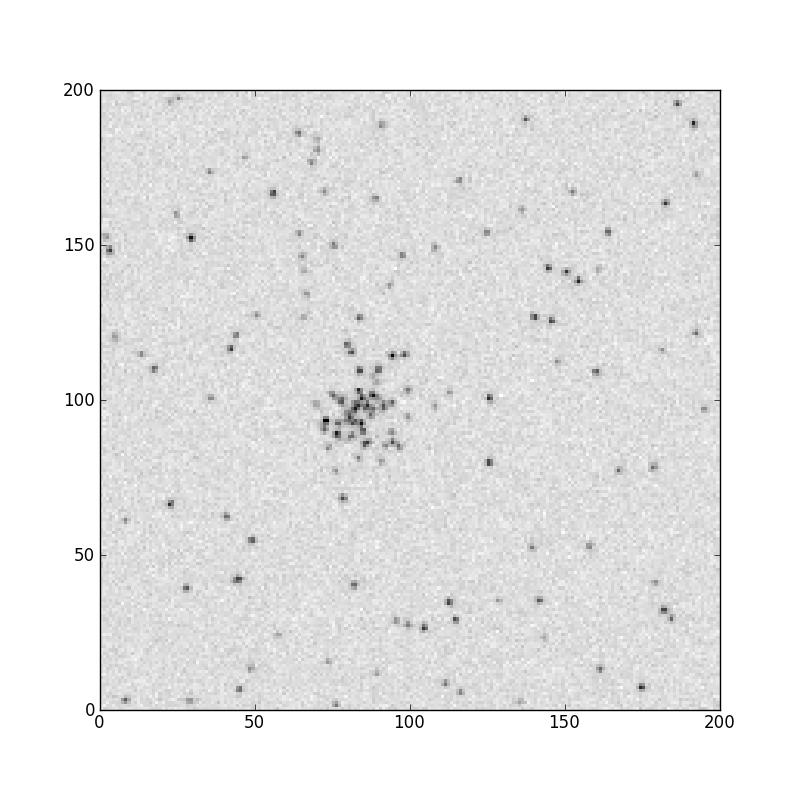
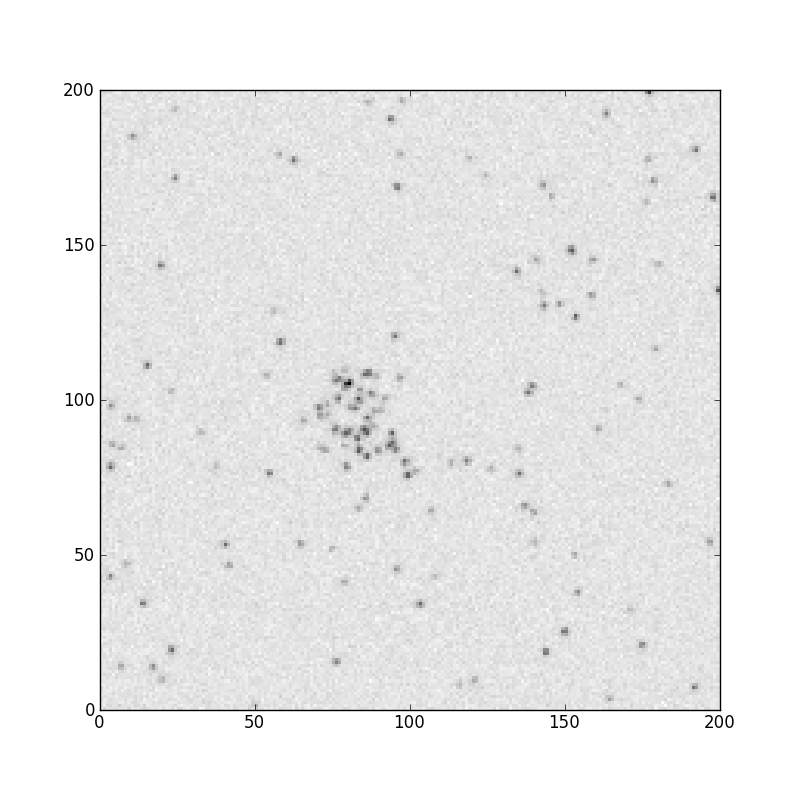
small tweak to example psf

diff --git a/starfield/starfield.py b/starfield/starfield.py
@@ -178,7 +178,7 @@ if __name__ == "__main__":
     import time
     import matplotlib.pyplot as pl
 
-    psf = PSF([1.2, 0.5], [1.0, 5.0])
+    psf = PSF([1.0, 0.6], [1.0, 4.0])
 
     sf = StarField(psf, 200, 200)
     sf.generate_bg_stars(100)

diff --git a/starfield/__init__.py b/starfield/__init__.py
@@ -1,0 +1,1 @@
+from starfield import *

diff --git a/README.md b/README.md
@@ -1,4 +1,22 @@
 # Synthetic Star Field Generator
 
+```python
+from starfield import PSF, StarField
+import matplotlib.pyplot as pl
+
+psf = PSF([1.0, 0.6], [1.0, 4.0])
+
+sf = StarField(psf, 200, 200)
+sf.generate_bg_stars(100)
+sf.generate_gaussian_stars(50, 95, 83.5, [[8.**2, 0], [0, 8.**2]])
+img = sf.image()
+
+fig = pl.figure(figsize=(8,8))
+ax = fig.add_subplot(111, aspect="equal")
+ax.pcolor(-img, cmap="gray")
+pl.savefig("example.png")
+
+```
+
 !["Just some stars"](https://github.com/dfm/Star-Field/raw/master/example.png)
 
